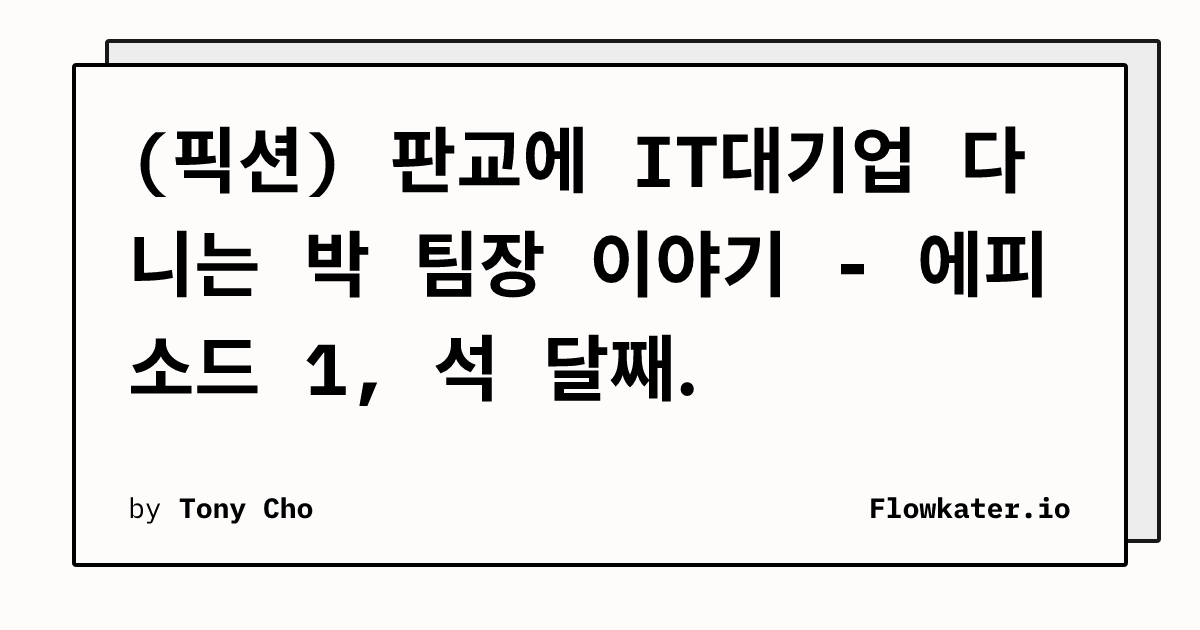
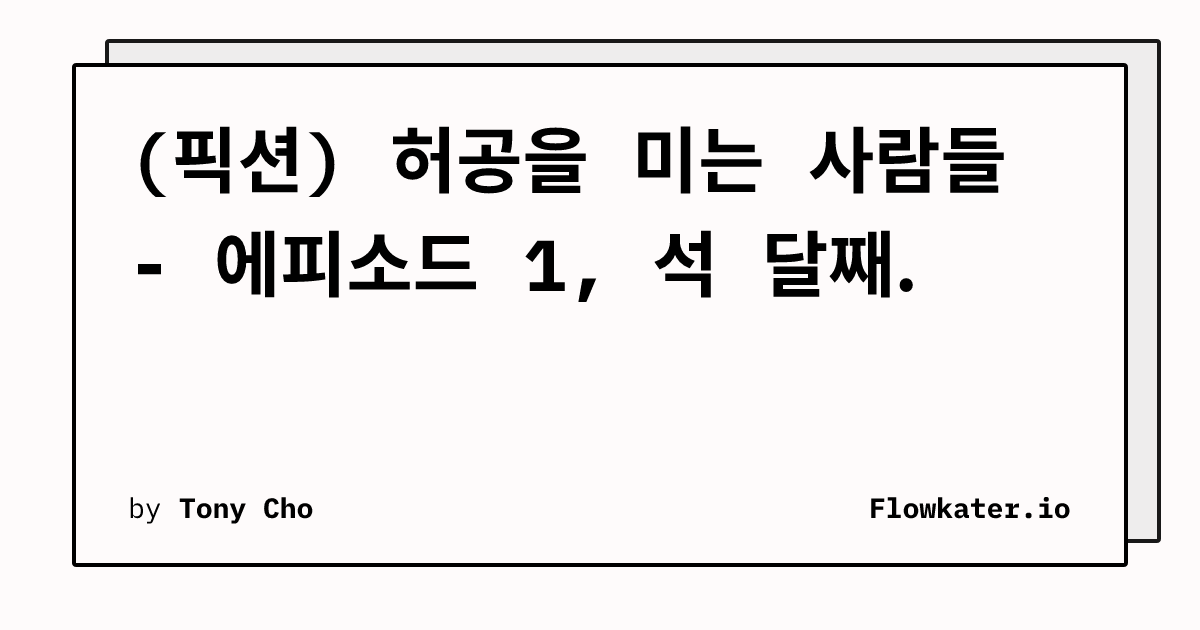
제목 변경

diff --git a/src/data/blog/2026-01-19-pangyo-it-episode-1.md b/src/data/blog/2026-01-19-pangyo-it-episode-1.md
@@ -1,5 +1,5 @@
 ---
-title: "(픽션) 판교에 IT대기업 다니는 박 팀장 이야기 - 에피소드 1, 석 달째."
+title: "(픽션) 허공을 미는 사람들 - 에피소드 1, 석 달째."
 description: "석 달째 야근과 주말 출근에 지친 IT 대기업 팀장의 하루. 부서장의 일정 추가 요구와 팀원들의 불만 사이에서 고민하는 박 팀장, 코드 리뷰와 테스트 없이 기능만 복사해 붙여넣는 김 대리. 야근 후 집에서 받은 부서장의 전화까지. 판교 IT 업계의 현실을 그린 픽션 소설. - 에피소드 1"
 summary: "석 달째 야근에 지친 IT 대기업 팀장과 팀원들의 하루를 그린 픽션 소설. 부서장의 압박, 팀원들의 불만, 가족과의 시간 부족까지."
 pubDatetime: 2026-01-19T21:32:33+09:00

diff --git a/src/data/blog/2026-01-25-pangyo-it-episode-2-1.md b/src/data/blog/2026-01-25-pangyo-it-episode-2-1.md
@@ -1,5 +1,5 @@
 ---
-title: "(픽션) 판교에 IT대기업 다니는 박 팀장 이야기 - 에피소드 2, 허무한 성공 - 1"
+title: "(픽션) 허공을 미는 사람들 - 에피소드 2, 허무한 성공 - 1"
 description: "주말에도 울리는 업무 전화와 식어가는 밥. 석 달간의 프로젝트가 끝났지만 남는 건 허무함뿐. 판교 IT대기업 개발팀의 이야기 에피소드 2."
 summary: "처가댁에서 식은 밥을 먹으며 업무 전화를 받는 박 팀장. 프로젝트는 끝났지만, 정작 남은 건 허무함과 성과급에 대한 막연한 기대뿐이다."
 pubDatetime: 2026-01-25T21:54:11+09:00
